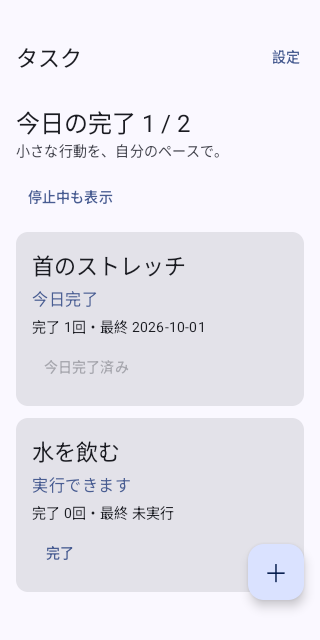
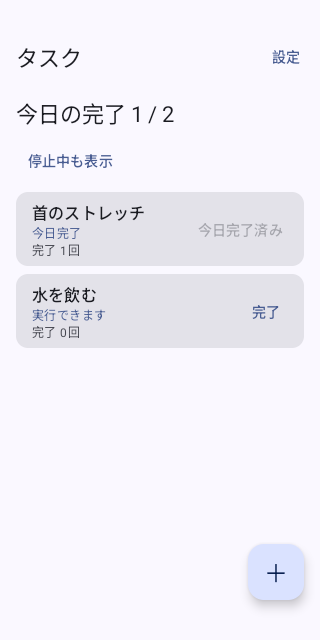
タスクの完了状況を短い一覧で確認できるようにする (#5)
* test: require compact task list to show three tasks

* test: require four tasks visible without scrolling

* feat: condense task progress list

* test: protect task names at large font scale

* test: measure unmerged task title width

* fix: keep task names readable with large text

* docs: record compact list design and stabilize device test

diff --git a/app/src/main/java/dev/tasknudge/ui/TaskListScreen.kt b/app/src/main/java/dev/tasknudge/ui/TaskListScreen.kt
@@ -5,7 +5,10 @@ import androidx.compose.foundation.lazy.LazyColumn
 import androidx.compose.foundation.lazy.items
 import androidx.compose.material3.*
 import androidx.compose.runtime.Composable
+import androidx.compose.ui.Alignment
 import androidx.compose.ui.Modifier
+import androidx.compose.ui.platform.LocalDensity
+import androidx.compose.ui.text.style.TextOverflow
 import androidx.compose.ui.unit.dp
 import androidx.compose.ui.tooling.preview.Preview
 import dev.tasknudge.data.TaskSnapshot
@@ -33,10 +36,9 @@ fun TaskListScreen(
 ) {
     val today = now.atZone(zone).toLocalDate()
     val active = tasks.filterNot { it.archived }
-    LazyColumn(contentPadding = PaddingValues(16.dp), verticalArrangement = Arrangement.spacedBy(12.dp)) {
+    LazyColumn(contentPadding = PaddingValues(horizontal = 16.dp, vertical = 8.dp), verticalArrangement = Arrangement.spacedBy(8.dp)) {
         item {
-            Text("今日の完了 ${active.count { task -> task.completions.any { it.localDate == today } }} / ${active.size}", style = MaterialTheme.typography.headlineSmall)
-            Text("小さな行動を、自分のペースで。", style = MaterialTheme.typography.bodyMedium, color = MaterialTheme.colorScheme.onSurfaceVariant)
+            Text("今日の完了 ${active.count { task -> task.completions.any { it.localDate == today } }} / ${active.size}", style = MaterialTheme.typography.titleLarge)
         }
         if (!notificationsEnabled) item {
             NotificationNotice(permissionRequested, onEnableNotifications)
@@ -53,16 +55,35 @@ fun TaskListScreen(
             Text(if (tasks.isEmpty()) "まだタスクがありません。＋から、思い出したい行動を追加しましょう。" else "実行中のタスクがありません。停止中のタスクはいつでも再開できます。", style = MaterialTheme.typography.bodyLarge)
         }
         items(visible, key = { it.id }) { task ->
+            val largeText = LocalDensity.current.fontScale >= 1.5f
+            val completedToday = task.completions.any { it.localDate == today }
+            val details: @Composable (Modifier) -> Unit = { modifier ->
+                Column(modifier) {
+                    Text(task.title, style = MaterialTheme.typography.titleMedium, maxLines = if (largeText) 3 else 2, overflow = TextOverflow.Ellipsis)
+                    Text(taskStatus(task, now, zone), style = MaterialTheme.typography.bodySmall, color = MaterialTheme.colorScheme.primary)
+                    Text("完了 ${task.completions.size}回", style = MaterialTheme.typography.bodySmall, color = MaterialTheme.colorScheme.onSurfaceVariant)
+                }
+            }
+            val completeAction: @Composable () -> Unit = {
+                if (!task.archived) {
+                    TextButton(onClick = { onComplete(task.id) }, enabled = !saving && !completedToday) {
+                        Text(if (completedToday) "今日完了済み" else "完了")
+                    }
+                }
+            }
             Card(onClick = { onOpenTask(task.id) }, modifier = Modifier.fillMaxWidth()) {
-                Column(Modifier.padding(16.dp), verticalArrangement = Arrangement.spacedBy(6.dp)) {
-                    Text(task.title, style = MaterialTheme.typography.titleLarge)
-                    Text(taskStatus(task, now, zone), color = MaterialTheme.colorScheme.primary)
-                    val latest = task.completions.maxByOrNull { it.completedAt }?.localDate
-                    Text("完了 ${task.completions.size}回・最終 ${latest ?: "未実行"}", style = MaterialTheme.typography.bodyMedium)
-                    if (!task.archived) {
-                        TextButton(onClick = { onComplete(task.id) }, enabled = !saving && task.completions.none { it.localDate == today }) {
-                            Text(if (task.completions.any { it.localDate == today }) "今日完了済み" else "完了")
-                        }
+                if (largeText) {
+                    Column(Modifier.fillMaxWidth().padding(start = 16.dp, end = 8.dp, top = 8.dp, bottom = 8.dp)) {
+                        details(Modifier.fillMaxWidth())
+                        Box(Modifier.fillMaxWidth(), contentAlignment = Alignment.CenterEnd) { completeAction() }
+                    }
+                } else {
+                    Row(
+                        Modifier.fillMaxWidth().padding(start = 16.dp, end = 8.dp, top = 8.dp, bottom = 8.dp),
+                        verticalAlignment = Alignment.CenterVertically,
+                    ) {
+                        details(Modifier.weight(1f))
+                        completeAction()
                     }
                 }
             }

diff --git a/app/src/androidTest/java/dev/tasknudge/ui/TaskScreensTest.kt b/app/src/androidTest/java/dev/tasknudge/ui/TaskScreensTest.kt
@@ -1,10 +1,17 @@
 package dev.tasknudge.ui
 
+import androidx.compose.foundation.layout.Box
+import androidx.compose.foundation.layout.size
+import androidx.compose.runtime.CompositionLocalProvider
+import androidx.compose.ui.platform.LocalDensity
 import androidx.compose.ui.test.*
 import androidx.compose.ui.test.junit4.StateRestorationTester
 import androidx.compose.ui.test.junit4.createComposeRule
+import androidx.compose.ui.Modifier
 import androidx.compose.ui.semantics.SemanticsActions
 import androidx.compose.ui.semantics.SemanticsProperties
+import androidx.compose.ui.unit.dp
+import androidx.compose.ui.unit.Density
 import dev.tasknudge.core.ReminderSettings
 import dev.tasknudge.data.*
 import kotlinx.coroutines.CompletableDeferred
@@ -22,6 +29,42 @@ class TaskScreensTest {
     @get:Rule val compose = createComposeRule()
     private fun launch(repo: ScreenRepository, enabled: Boolean = true, initial: Long? = null, enable: () -> Unit = {}) {
         compose.setContent { TaskNudgeTheme(dynamicColor = false) { TaskNudgeApp(repo, enabled, enable, initial) } }
+    }
+    @Test fun fourTasksRemainVisibleWithoutScrollingInACompactList() {
+        val tasks = listOf(
+            sampleTask(),
+            sampleTask().copy(id = 2, title = "肩"),
+            sampleTask().copy(id = 3, title = "足"),
+            sampleTask().copy(id = 4, title = "腰"),
+        )
+        var openedTask: Long? = null
+        compose.setContent {
+            TaskNudgeTheme(dynamicColor = false) {
+                Box(Modifier.size(360.dp, 560.dp)) {
+                    TaskListScreen(tasks, false, {}, true, false, {}, false,
+                        Instant.parse("2026-10-01T10:00:00Z"), ZoneId.of("Asia/Tokyo"),
+                        { openedTask = it }, {})
+                }
+            }
+        }
+        compose.onNodeWithText("腰").assertIsDisplayed().performClick()
+        compose.runOnIdle { assertEquals(4L, openedTask) }
+    }
+    @Test fun largeTextKeepsTaskNameReadableWithCompletionAction() {
+        val title = "首と肩のストレッチをゆっくり丁寧に続ける"
+        compose.setContent {
+            TaskNudgeTheme(dynamicColor = false) {
+                CompositionLocalProvider(LocalDensity provides Density(1f, 2f)) {
+                    Box(Modifier.size(360.dp, 560.dp)) {
+                        TaskListScreen(listOf(sampleTask().copy(title = title)), false, {}, true, false, {}, false,
+                            Instant.parse("2026-10-01T10:00:00Z"), ZoneId.of("Asia/Tokyo"), {}, {})
+                    }
+                }
+            }
+        }
+        val nameWidth = compose.onNodeWithText(title, useUnmergedTree = true).fetchSemanticsNode().boundsInRoot.width
+        assertTrue("Large text must leave at least 200dp for the task name; width was $nameWidth", nameWidth >= 200f)
+        compose.onNodeWithText("完了").assertIsDisplayed()
     }
     @Test fun injectedClockAndZoneShowTodaysCompletionOnListAndDetail() {
         val clock = Clock.fixed(Instant.parse("2030-04-03T15:30:00Z"), ZoneOffset.UTC)
@@ -41,7 +84,7 @@ class TaskScreensTest {
         compose.onNodeWithContentDescription("タスクを追加").performClick()
         compose.onNodeWithText("タイトル").performTextInput("首のストレッチ")
         compose.onNodeWithText("保存").performClick()
-        compose.waitUntil { repo.data.value.tasks.size == 1 }
+        compose.waitUntil(10_000) { repo.data.value.tasks.size == 1 }
         assertEquals("首のストレッチ", repo.data.value.tasks.single().title)
         assertEquals(1, repo.data.value.tasks.single().recurrenceDays)
         compose.onNodeWithText("首のストレッチ").assertIsDisplayed()

diff --git a/docs/superpowers/specs/2026-09-30-task-nudge-design.md b/docs/superpowers/specs/2026-09-30-task-nudge-design.md
@@ -91,7 +91,7 @@ last completion は履歴の MAX(completedAt) とその localDate を取得。to
 
 Material 3、Android 12+ の dynamic color、旧版の落ち着いた青緑テーマ、dark mode。日本語システムフォント、タップ領域 48dp 以上、状態を色だけで伝えない。edge-to-edge の system/IME inset、文字拡大、TalkBack を考慮。幅が広い場合も本文を最大 720dp に収める。
 
-- **ホーム「タスク」**: 今日の完了数/有効タスク数、通知停止理由、タスク一覧、追加 FAB、設定ボタン、停止中表示切替。行にはタイトル、今日完了/次回対象日/保留時刻、完了回数、最終完了日、手動「完了」。行選択で詳細へ。0 件なら「タスクを追加して、少しずつ続けましょう」。ロード/DB エラーを空一覧と区別する。
+- **ホーム「タスク」**: 今日の完了数/有効タスク数、通知停止理由、タスク一覧、追加 FAB、設定ボタン、停止中表示切替。Issue #3 の更新後、一覧の短い行にはタイトル、今日完了/次回対象日/保留時刻、累計完了回数、手動「完了」を表示する。最終完了日は詳細の履歴で確認する。文字拡大時は完了ボタンを下段へ置く。行選択で詳細へ。0 件なら「タスクを追加して、少しずつ続けましょう」。ロード/DB エラーを空一覧と区別する。
 - **追加/編集**: タイトル欄が最初にあり必須。任意の「繰り返し」欄は初期毎日。保存/キャンセル。空白・長すぎ・非整数・範囲外は欄の日本語エラーにし、保存しない。入力は回転時維持。停止/再開は詳細画面から可能。
 - **詳細/履歴**: タイトル、編集、停止/再開、累計完了回数、日付降順の完了一覧。「まだ完了の記録がありません」。停止しても履歴は閲覧可。連打の完了は 1 件。
 - **設定**: 通知可能時間、全体間隔、通知許可状態と設定導線、OS 遅延の説明、端末内保存とアンインストールで履歴が消える旨。開始 >= 終了は保存不可。24 時は翌日 00:00 の境界として表示。

diff --git a/README.md b/README.md
@@ -27,7 +27,7 @@ Android 13 以上では、明示的に「通知を有効にする」を押した
 
 ## 画面
 
-[API 35 エミュレーターの CI 実行](https://github.com/yutotamura55/task-nudge/actions/runs/36952478562)で撮影し、原寸で確認した実画面です。
+[API 35 エミュレーターの CI 実行](https://github.com/yutotamura55/task-nudge/actions/runs/37108961651)で撮影し、原寸で確認した実画面です。一覧では各タスクの状態と累計完了回数を短い行で確認でき、行を開くと最終完了日を含む履歴を見られます。
 
 | タスク一覧 | 完了履歴 | 通知設定 |
 | --- | --- | --- |
